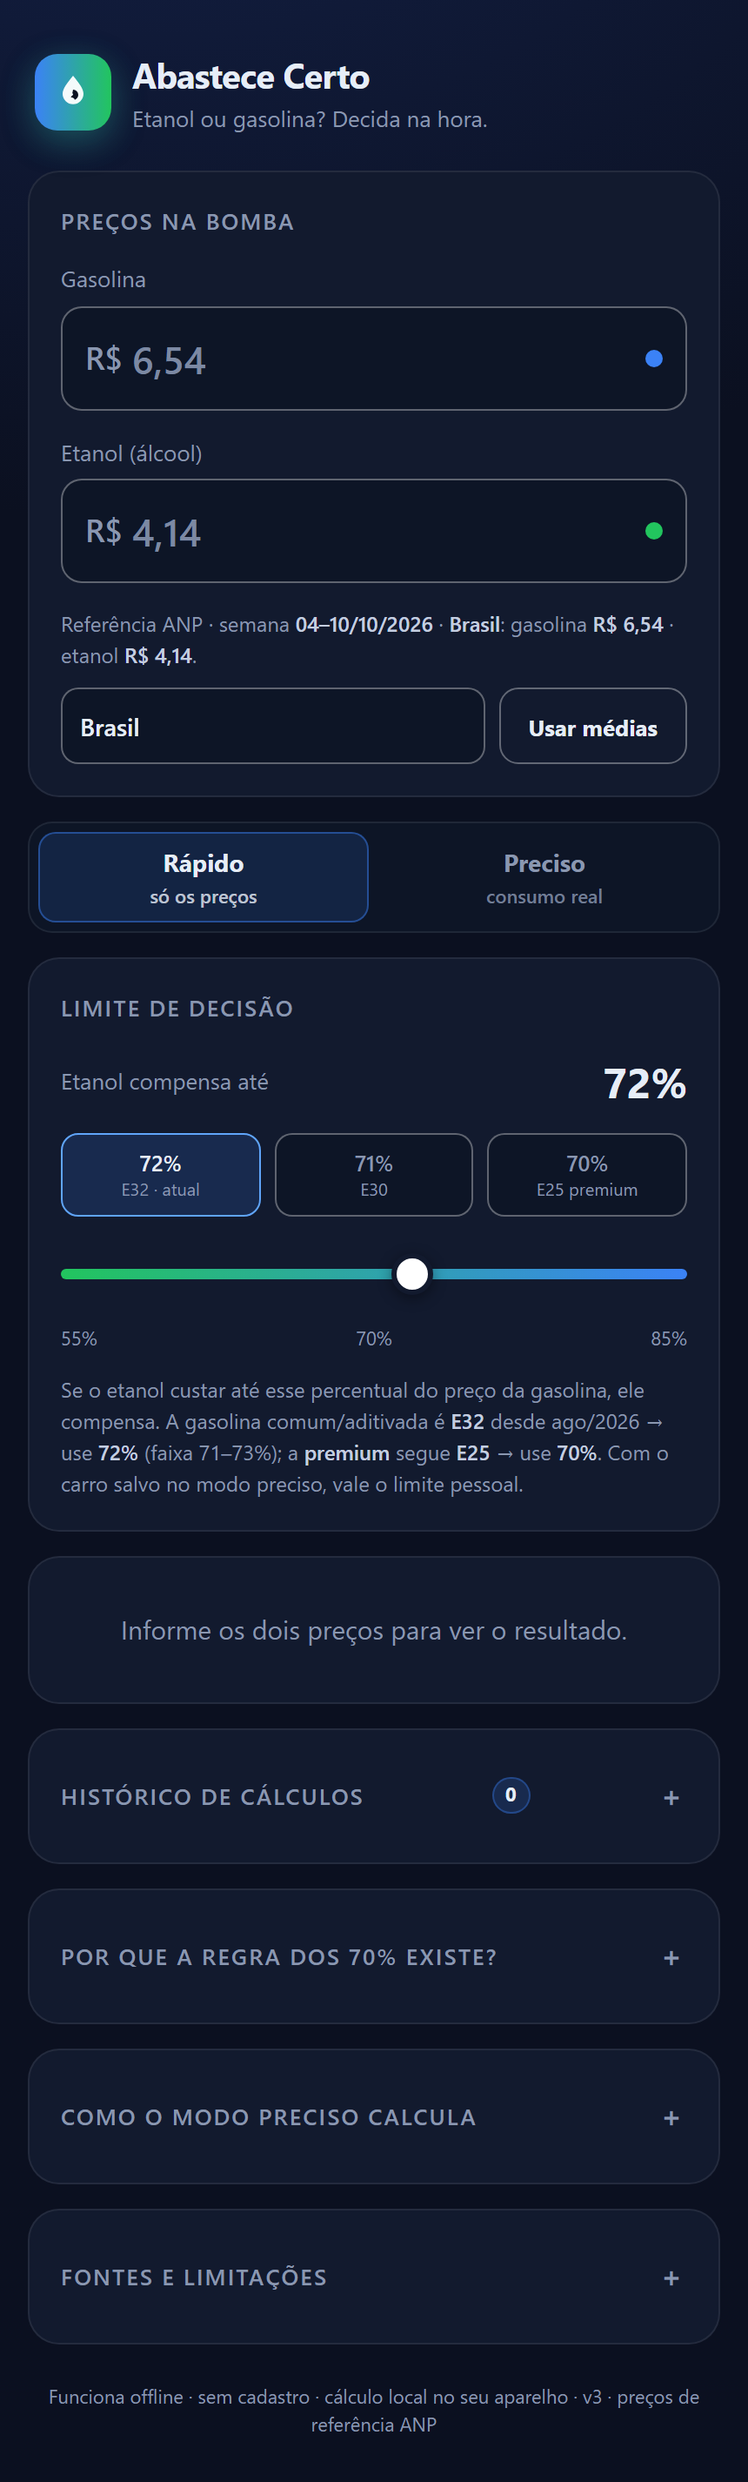
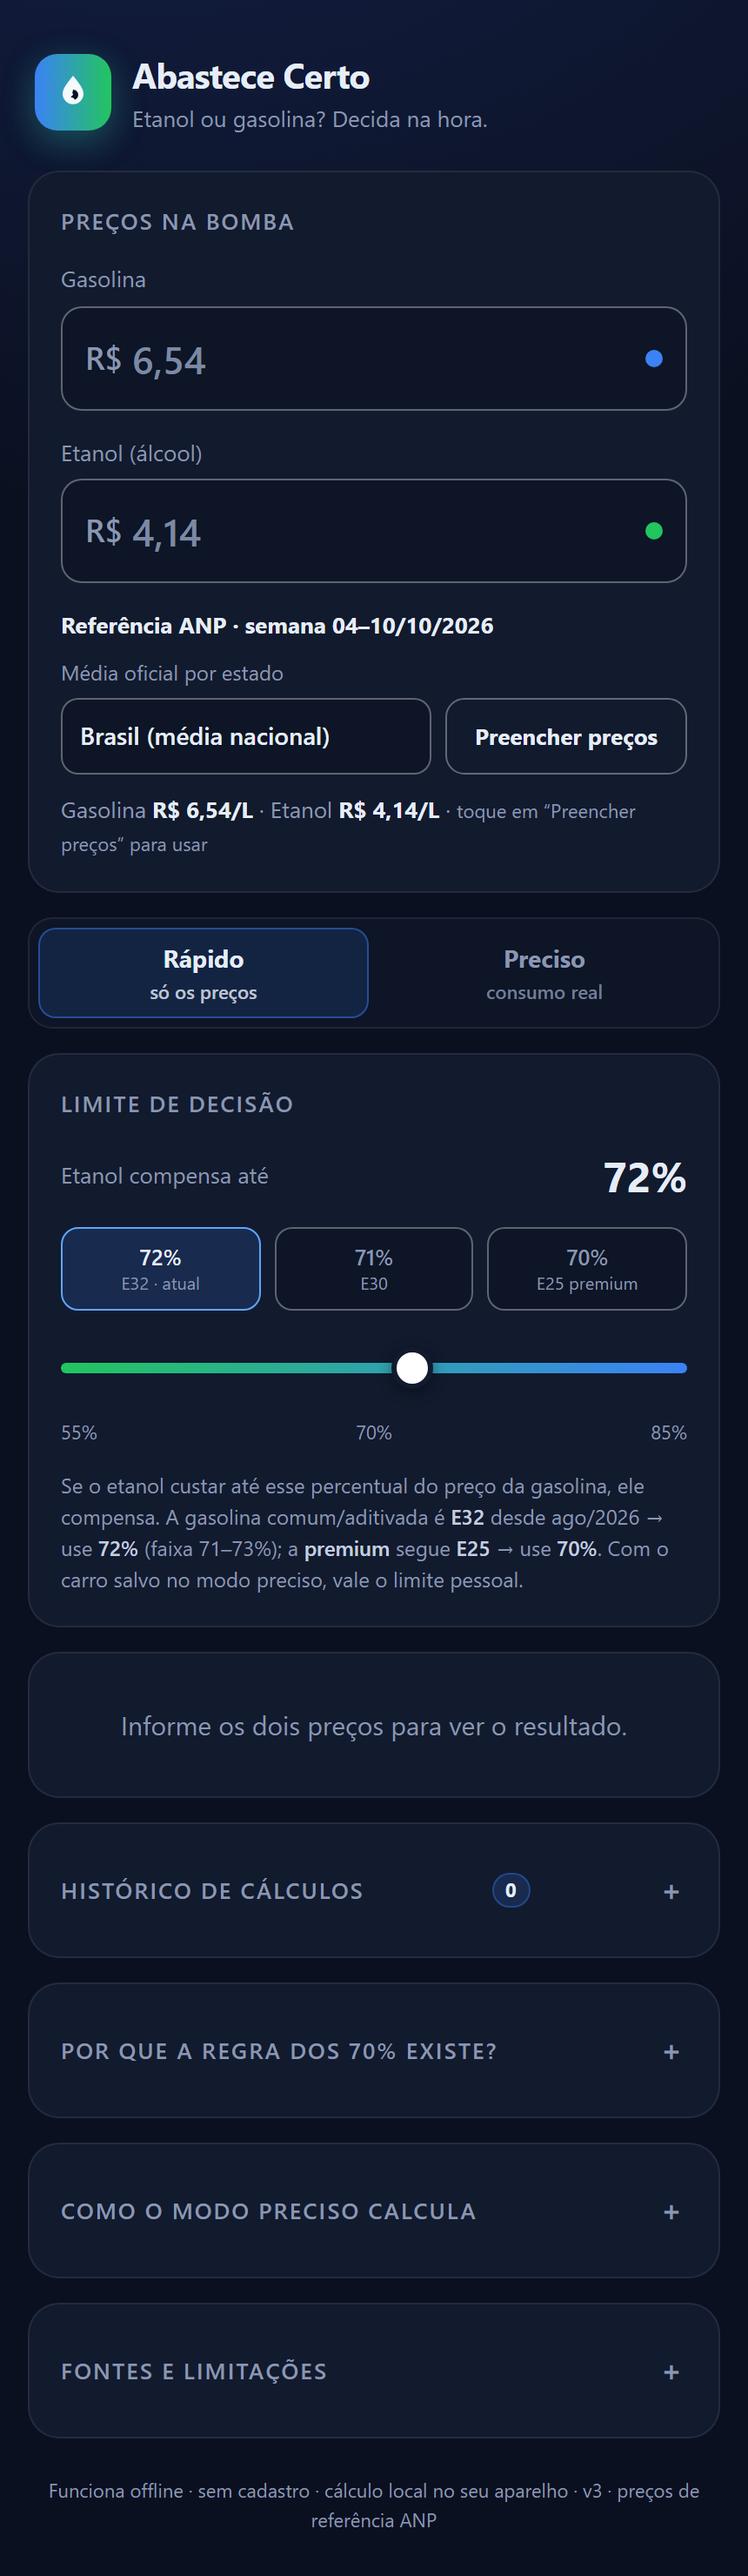
feat(ui): selecao de UF explicita + DESIGN.md (contrato visual v4) + .nojekyll para GitHub Pages

diff --git a/index.html b/index.html
@@ -248,13 +248,19 @@
   .warn ul { margin: 0 0 0 16px; }
   .warn li { margin: 2px 0; }
 
-  .ref-actions { display: flex; gap: 8px; margin-top: 10px; align-items: stretch; }
+  .ref-actions { display: flex; gap: 8px; margin-top: 6px; align-items: stretch; }
   .ref-actions select {
     flex: 1; min-height: 44px; font-family: inherit; font-size: 14px; font-weight: 600;
     color: var(--text); background: var(--card-2); border: 1px solid var(--border-ctrl);
     border-radius: 10px; padding: 8px 10px; -webkit-appearance: none; appearance: none; cursor: pointer;
   }
   .ref-actions .btn { flex: none; font-size: 13px; }
+  .ref-title { font-size: 13px; font-weight: 700; color: var(--text); margin-bottom: 2px; }
+  .ref-title strong { font-weight: 700; }
+  .ref-label { display: block; font-size: 12px; color: var(--muted); margin: 8px 0 6px; }
+  .ref-values { font-size: 13px; color: var(--muted); margin-top: 10px; line-height: 1.5; }
+  .ref-values strong { color: var(--text); font-variant-numeric: tabular-nums; }
+  .ref-note { font-size: 11px; }
 
   .pill {
     display: inline-block; min-width: 22px; padding: 1px 7px; border-radius: 999px;
@@ -1513,20 +1519,20 @@
     var week = AC.formatWeek(p.semana);
     var ufs = Object.keys(p.estados).sort();
 
-    var opts = '<option value="">Brasil</option>';
+    var opts = '<option value="">Brasil (média nacional)</option>';
     for (var i = 0; i < ufs.length; i++) {
       opts += '<option value="' + ufs[i] + '"' + (ufs[i] === uf ? " selected" : "") + ">" + ufs[i] + "</option>";
     }
 
     ui.priceRef.innerHTML =
-      '<p class="fineprint">Referência ANP' + (week ? " · semana <strong>" + week + "</strong>" : "") +
-      " · <strong>" + (uf || "Brasil") + "</strong>: gasolina <strong>" + AC.fmtBRL(values.gasolina) +
-      "</strong> · etanol <strong>" + AC.fmtBRL(values.etanol) + "</strong>.</p>" +
+      '<p class="ref-title">Referência ANP' + (week ? ' · semana <strong>' + week + "</strong>" : "") + "</p>" +
+      '<label class="ref-label" for="refUf">Média oficial por estado</label>' +
       '<div class="ref-actions">' +
-      '<label class="sr-only" for="refUf">Estado da referência ANP</label>' +
       '<select id="refUf">' + opts + "</select>" +
-      '<button type="button" class="btn ghost" id="refUse">Usar médias</button>' +
-      "</div>";
+      '<button type="button" class="btn ghost" id="refUse">Preencher preços</button>' +
+      "</div>" +
+      '<p class="ref-values">Gasolina <strong>' + AC.fmtBRL(values.gasolina) + "/L</strong> · Etanol <strong>"
+        + AC.fmtBRL(values.etanol) + "/L</strong> · <span class=\"ref-note\">toque em “Preencher preços” para usar</span></p>";
   }
 
   function useRefPrices() {

diff --git a/DESIGN.md b/DESIGN.md
@@ -1,0 +1,118 @@
+# DESIGN.md — Abastece Certo
+
+> Contrato de design do app. Serve para qualquer pessoa (ou agente de design, ex.: OpenDesign) que for
+> redesenhar a interface: leia isto antes de tocar em `index.html`. Se os tokens mudarem, atualize este
+> arquivo na mesma mudança.
+
+## 1. Produto e contexto de uso
+
+- Decisão rápida **no posto de gasolina**: sol, celular em uma mão, pressa.
+- 90% do uso: informar dois preços e ler o veredito em menos de 5 segundos.
+- Público: motorista brasileiro, sem familiaridade técnica.
+- Restrições **inegociáveis**: arquivo único (`index.html`), zero dependências, zero build, fontes do
+  sistema (nenhuma webfont/CDN), funciona em `file://` e offline, instalável como PWA.
+
+## 2. Direção visual (proposta v4)
+
+**"Balcão de posto": editorial brasileiro, papel/recibo, tipografia firme, cor de sinalização.**
+
+Sensação de referência: nota fiscal de posto, placa de preço, jornal de bairro, bilhete manuscrito —
+não "dashboard de startup de tecnologia".
+
+Princípios da direção:
+
+1. **Papel, não vidro.** Fundo claro e quente, fios finos separando seções, quase nenhuma sombra.
+2. **Tipografia faz o trabalho.** Serifada editorial nos títulos e no veredito; monoespaçada tabular nos
+   números; sans do sistema no resto.
+3. **Cor é sinalização.** Verde/azul-petróleo identificam os combustíveis; amarelo de placa marca o limite;
+   vermelho só para erro. Nada de gradiente decorativo.
+4. **O veredito é o herói.** É o maior elemento da tela e o único com peso visual forte.
+5. **Densidade honesta.** Sem preencher espaço com cartões vazios; o app é curto porque a tarefa é curta.
+
+## 3. Anti-metas (o que NÃO fazer)
+
+O visual da v3 caiu no padrão "cara de IA". Não repetir:
+
+- fundo navy escuro com gradiente radial e brilho no canto;
+- todos os blocos como cartões idênticos de `border-radius: 18px` com sombra difusa;
+- logo com gradiente azul→verde e *glow*;
+- tudo em CAIXA ALTA com `letter-spacing` largo;
+- emoji usado como ícone, ou ícones genéricos de biblioteca;
+- verde/azul "tech" para combustível (ver §5);
+- glassmorphism, neon, parallax, animação decorativa.
+
+## 4. Tipografia
+
+| Uso | Família | Peso | Tamanho |
+|---|---|---|---|
+| Título da tela / veredito | `Georgia, "Times New Roman", serif` | 700 | 28–44 px |
+| Rótulos e textos | `system-ui, -apple-system, "Segoe UI", Roboto, sans-serif` | 400–600 | 12–15 px |
+| Números e preços | `ui-monospace, "Cascadia Mono", Consolas, monospace` | 600–700 | 16–40 px |
+
+- Números sempre com `font-variant-numeric: tabular-nums`.
+- Moeda no formato `R$ 0,00` (pt-BR), unidade de consumo `12,4 km/L`.
+- Escala: 11 · 12 · 13 · 15 · 18 · 24 · 32 · 44.
+- Sem webfont: nada de `@import`, `@font-face` remoto ou `<link>` externo.
+
+## 5. Cor (tokens)
+
+```css
+:root {
+  --paper:    #f5f0e4;  /* fundo */
+  --surface:  #fffdf7;  /* campos e cartões */
+  --ink:      #16150f;  /* texto principal */
+  --ink-2:    #55503f;  /* texto secundário */
+  --rule:     #d9d1bd;  /* fios e bordas */
+  --etanol:   #1f6b3a;  /* verde escuro — etanol */
+  --gasolina: #0e5a6b;  /* azul petróleo — gasolina */
+  --sinal:    #e8b200;  /* amarelo de placa — limite/atenção */
+  --alerta:   #a23b12;  /* erro */
+}
+@media (prefers-color-scheme: dark) {
+  :root { --paper: #12110d; --surface: #1b1913; --ink: #f2ede0; --ink-2: #b9b2a0; --rule: #3a362b; }
+}
+```
+
+- Contraste mínimo: **4,5:1** para texto e **3:1** para bordas/indicadores (WCAG 2.2 AA).
+- A cor nunca é o único sinal: veredito sempre tem texto e ícone.
+
+## 6. Layout e espaçamento
+
+- Base de 4 px; respiro entre seções de 16–24 px.
+- Contentor de 440–480 px, centralizado; nada de layout largo.
+- Seções separadas por **fio de 1 px**, `border-radius` máximo de 8 px.
+- Sombra apenas em elementos flutuantes (toast, barra de "nova versão").
+- Ordem de leitura: preços → veredito (herói) → comparação → histórico → educação/fontes.
+
+## 7. Componentes
+
+- **Campo de preço:** etiqueta pequena, prefixo `R$` discreto, valor grande em mono; foco com contorno de
+  2 px; erro em texto (não só cor) e `aria-invalid`.
+- **Seletor de UF:** rótulo visível "Média oficial por estado", `select` + botão "Preencher preços" e os
+  valores médios exibidos logo abaixo (a média muda ao trocar a UF).
+- **Gauge:** régua graduada com marca de limite e ponto do índice; sem gradiente arco-íris.
+- **Veredito:** faixa com ícone monocromático + frase completa ("Abasteça com etanol"); cor semântica com
+  texto sempre presente.
+- **Histórico:** linha fina no gráfico, lista com data e valores tabulares; nunca mais de 50 itens.
+- **Botões:** primário sólido em `--ink` sobre `--paper`; secundário com fio; destrutivo em `--alerta`.
+
+## 8. Movimento
+
+- Transições de 120–200 ms, `ease-out`; nenhum *bounce*.
+- Respeitar `prefers-reduced-motion: reduce` (desligar tudo).
+
+## 9. Acessibilidade e conteúdo
+
+- WCAG 2.2 AA; `aria-live` no resultado e nas mensagens de erro; abas com `role=tablist/tab` e setas.
+- Alvos de toque ≥ 44 px; `inputmode="decimal"`; zoom do iOS não pode ser disparado (fonte ≥ 16 px).
+- Voz: direta, brasileira, sem jargão. Veredito em frase completa.
+- No modo rápido **nunca** prometer economia em reais; economia só no modo preciso, onde o consumo é real.
+
+## 10. Contratos que o redesign não pode quebrar
+
+- Ids e ganchos de teste: `#gas`, `#eta`, `#threshold`, `#resultOut`, `#priceRef`, `#histList`, `#live`,
+  `#toast`, `#updateBar`, abas `#tab-fast`/`#tab-precise` e painéis `#panel-fast`/`#panel-precise`.
+- Classes de veredito: `etanol`, `gasolina`, `empate` (usadas por testes e pelo CSV/ histórico).
+- O portão de qualidade é `tools/test.mjs`, `tools/test-dom.mjs`, `tools/test-sw.mjs`,
+  `tools/test-prices.mjs`, `tools/check.mjs` e `tools/visual-check.mjs`. Redesign que quebra esses testes
+  não entra.
